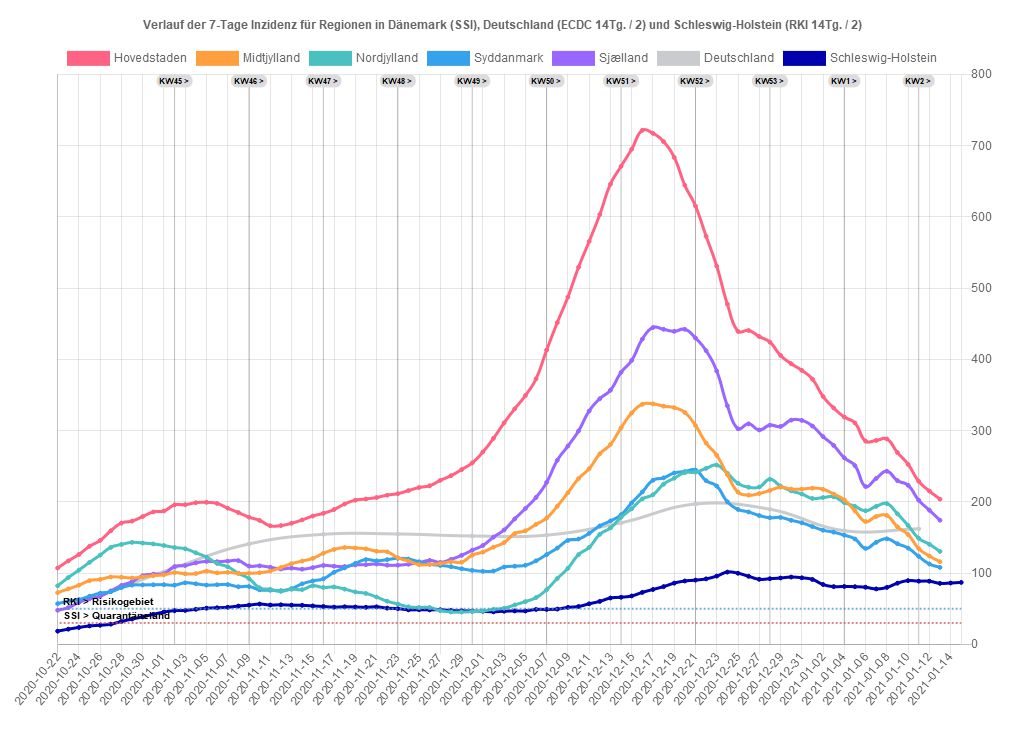
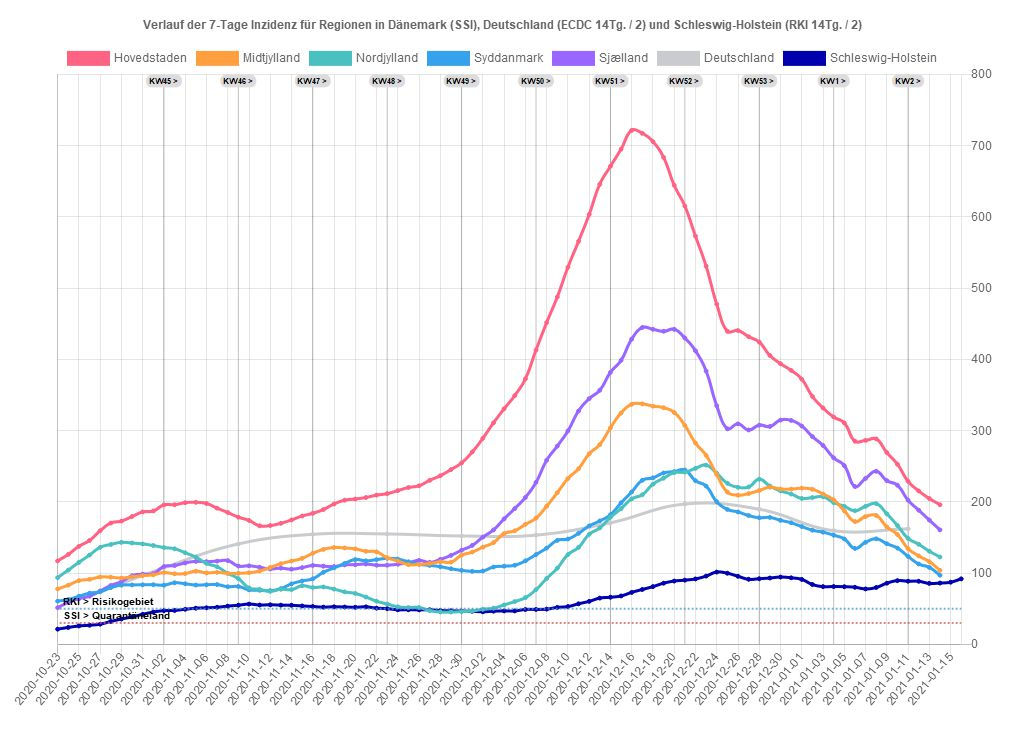
16.01.2021 14:20:41,29

diff --git a/dk/regioner.js b/dk/regioner.js
@@ -1,44 +1,44 @@
 var chdata={ type:'line',
-last_update: '2021-01-15',
-last_dk_data: '2021-01-13',
+last_update: '2021-01-16',
+last_dk_data: '2021-01-14',
 data: {
-labels: ["2020-10-22","2020-10-23","2020-10-24","2020-10-25","2020-10-26","2020-10-27","2020-10-28","2020-10-29","2020-10-30","2020-10-31","2020-11-01","2020-11-02","2020-11-03","2020-11-04","2020-11-05","2020-11-06","2020-11-07","2020-11-08","2020-11-09","2020-11-10","2020-11-11","2020-11-12","2020-11-13","2020-11-14","2020-11-15","2020-11-16","2020-11-17","2020-11-18","2020-11-19","2020-11-20","2020-11-21","2020-11-22","2020-11-23","2020-11-24","2020-11-25","2020-11-26","2020-11-27","2020-11-28","2020-11-29","2020-11-30","2020-12-01","2020-12-02","2020-12-03","2020-12-04","2020-12-05","2020-12-06","2020-12-07","2020-12-08","2020-12-09","2020-12-10","2020-12-11","2020-12-12","2020-12-13","2020-12-14","2020-12-15","2020-12-16","2020-12-17","2020-12-18","2020-12-19","2020-12-20","2020-12-21","2020-12-22","2020-12-23","2020-12-24","2020-12-25","2020-12-26","2020-12-27","2020-12-28","2020-12-29","2020-12-30","2020-12-31","2021-01-01","2021-01-02","2021-01-03","2021-01-04","2021-01-05","2021-01-06","2021-01-07","2021-01-08","2021-01-09","2021-01-10","2021-01-11","2021-01-12","2021-01-13","2021-01-14","2021-01-15"],
+labels: ["2020-10-23","2020-10-24","2020-10-25","2020-10-26","2020-10-27","2020-10-28","2020-10-29","2020-10-30","2020-10-31","2020-11-01","2020-11-02","2020-11-03","2020-11-04","2020-11-05","2020-11-06","2020-11-07","2020-11-08","2020-11-09","2020-11-10","2020-11-11","2020-11-12","2020-11-13","2020-11-14","2020-11-15","2020-11-16","2020-11-17","2020-11-18","2020-11-19","2020-11-20","2020-11-21","2020-11-22","2020-11-23","2020-11-24","2020-11-25","2020-11-26","2020-11-27","2020-11-28","2020-11-29","2020-11-30","2020-12-01","2020-12-02","2020-12-03","2020-12-04","2020-12-05","2020-12-06","2020-12-07","2020-12-08","2020-12-09","2020-12-10","2020-12-11","2020-12-12","2020-12-13","2020-12-14","2020-12-15","2020-12-16","2020-12-17","2020-12-18","2020-12-19","2020-12-20","2020-12-21","2020-12-22","2020-12-23","2020-12-24","2020-12-25","2020-12-26","2020-12-27","2020-12-28","2020-12-29","2020-12-30","2020-12-31","2021-01-01","2021-01-02","2021-01-03","2021-01-04","2021-01-05","2021-01-06","2021-01-07","2021-01-08","2021-01-09","2021-01-10","2021-01-11","2021-01-12","2021-01-13","2021-01-14","2021-01-15","2021-01-16"],
 datasets: [
 {label: 'Hovedstaden',
 backgroundColor: window.chartColors.red,
 borderColor: window.chartColors.red,
 fill: false,
-data: [107.2,117.1,126.2,137.6,145.8,159.4,170.2,173.0,179.4,185.8,187.2,195.7,196.0,198.8,199.3,197.7,191.1,185.0,178.5,173.9,166.4,166.7,169.9,174.6,180.1,183.9,189.2,197.0,202.3,204.0,206.1,209.4,211.5,215.8,220.1,222.6,230.2,236.7,245.3,254.7,270.0,289.2,310.9,330.6,349.2,372.7,413.1,451.6,487.5,529.3,565.6,603.4,645.9,671.0,695.0,721.5,717.3,705.6,683.5,644.4,615.2,572.9,530.9,477.5,439.4,440.5,432.0,424.2,405.6,393.9,384.6,372.2,348.0,331.8,319.1,310.7,285.2,286.2,288.3,269.2,252.7,228.9,215.2,203.8]},
+data: [117.1,126.2,137.6,145.8,159.4,170.2,173.0,179.4,185.8,187.2,195.7,196.0,198.8,199.3,197.7,191.1,185.0,178.5,173.9,166.4,166.7,169.9,174.6,180.1,183.9,189.2,197.0,202.3,204.0,206.1,209.4,211.5,215.8,220.1,222.6,230.2,236.7,245.3,254.7,270.0,289.2,310.9,330.6,349.2,372.7,413.1,451.6,487.5,529.3,565.6,603.4,645.9,671.0,695.0,721.5,717.3,705.6,683.5,644.4,615.2,572.9,530.9,477.5,439.4,440.4,431.9,424.2,405.5,393.9,384.6,372.2,348.0,331.8,319.1,310.7,285.2,286.2,288.3,269.2,252.7,228.9,215.3,204.7,195.9]},
 {label: 'Midtjylland',
 backgroundColor: window.chartColors.orange,
 borderColor: window.chartColors.orange,
 fill: false,
-data: [72.6,77.8,83.0,89.4,91.2,94.5,94.2,93.1,94.7,96.4,97.6,100.7,99.0,99.3,102.7,100.3,101.0,99.6,99.7,100.5,102.9,107.9,113.2,116.9,120.7,127.8,133.2,135.9,135.3,134.0,130.7,129.8,121.6,116.9,111.9,112.1,113.4,115.9,115.3,125.1,129.5,136.4,142.8,155.5,159.4,168.4,177.2,193.9,212.8,232.7,246.5,267.4,280.5,303.9,324.7,336.9,337.6,334.3,332.2,325.4,307.2,282.5,265.3,238.2,213.7,209.4,211.6,216.0,220.5,218.0,217.9,219.2,217.6,211.0,202.8,187.4,172.3,179.4,180.9,164.9,154.1,134.4,124.0,115.9]},
+data: [77.8,83.0,89.4,91.2,94.5,94.2,93.1,94.7,96.4,97.6,100.7,99.0,99.3,102.7,100.3,101.0,99.6,99.7,100.5,102.9,107.9,113.2,116.9,120.7,127.8,133.2,135.9,135.3,134.0,130.7,129.8,121.6,116.9,111.9,112.1,113.4,115.9,115.3,125.1,129.5,136.4,142.8,155.5,159.4,168.4,177.2,193.9,212.8,232.7,246.5,267.4,280.5,303.9,324.7,336.9,337.6,334.3,332.2,325.4,307.2,282.5,265.3,238.2,213.7,209.4,211.6,216.0,220.5,218.0,217.9,219.2,217.6,211.0,202.8,187.4,172.3,179.4,180.9,164.9,154.1,134.4,124.1,116.0,103.9]},
 {label: 'Nordjylland',
 backgroundColor: window.chartColors.green,
 borderColor: window.chartColors.green,
 fill: false,
-data: [82.2,93.7,104.2,115.1,125.3,136.1,140.2,143.1,142.2,140.9,138.7,135.9,134.1,128.5,122.4,113.6,108.8,99.7,92.2,79.3,77.1,74.4,77.3,76.8,82.2,79.8,80.5,77.5,73.6,71.4,66.4,60.5,56.6,52.7,51.7,51.7,47.3,45.4,45.3,45.9,46.8,49.2,50.7,55.3,60.0,65.6,76.8,92.4,106.8,125.9,136.1,154.4,163.4,178.3,190.4,204.1,210.0,224.8,233.2,241.0,241.7,247.0,251.6,240.0,226.1,220.5,220.9,231.7,222.2,215.4,211.0,204.8,206.0,207.1,199.0,193.7,187.5,193.7,197.5,183.2,166.8,148.8,140.5,130.4]},
+data: [93.7,104.2,115.1,125.3,136.1,140.2,143.1,142.2,140.9,138.7,135.9,134.1,128.5,122.4,113.6,108.8,99.7,92.2,79.3,77.1,74.4,77.3,76.8,82.2,79.8,80.5,77.5,73.6,71.4,66.4,60.5,56.6,52.7,51.7,51.7,47.3,45.4,45.3,45.9,46.8,49.2,50.7,55.3,60.0,65.6,76.8,92.4,106.8,125.9,136.1,154.4,163.4,178.3,190.4,204.1,210.0,224.8,233.2,241.0,241.7,247.0,251.6,240.0,226.1,220.5,220.9,231.7,222.2,215.4,211.0,204.8,206.0,207.1,199.0,193.7,187.5,193.7,197.5,183.2,166.8,148.8,140.5,130.7,122.6]},
 {label: 'Syddanmark',
 backgroundColor: window.chartColors.blue,
 borderColor: window.chartColors.blue,
 fill: false,
-data: [57.1,60.6,62.9,67.5,71.8,73.8,79.6,83.1,83.4,83.6,83.7,83.1,86.4,85.0,83.2,83.6,83.9,80.9,81.2,76.5,75.9,75.4,78.3,84.9,89.0,92.0,101.1,107.3,113.6,119.0,117.2,118.9,120.7,119.6,115.9,112.4,110.8,109.0,106.1,103.8,102.5,102.9,108.5,109.7,111.0,117.2,126.0,135.1,145.9,147.8,155.8,166.2,173.2,181.9,198.6,213.9,230.3,233.7,240.5,242.5,244.7,229.7,222.1,200.2,189.4,185.8,180.8,177.7,178.1,174.1,170.6,165.3,160.2,157.4,153.2,147.9,134.6,143.2,148.1,141.2,135.1,123.4,112.8,108.0]},
+data: [60.6,62.9,67.5,71.8,73.8,79.6,83.1,83.4,83.6,83.7,83.1,86.4,85.0,83.2,83.6,83.9,80.9,81.2,76.5,75.9,75.4,78.3,84.9,89.0,92.0,101.1,107.3,113.6,119.0,117.2,118.9,120.7,119.6,115.9,112.4,110.8,109.0,106.1,103.8,102.5,102.9,108.5,109.7,111.0,117.2,126.0,135.1,145.9,147.8,155.8,166.2,173.2,181.9,198.6,213.9,230.3,233.7,240.5,242.5,244.7,229.7,222.1,200.2,189.4,185.8,180.8,177.7,178.1,174.1,170.6,165.3,160.2,157.4,153.2,147.9,134.6,143.2,148.1,141.2,135.1,123.4,112.8,108.0,97.0]},
 {label: 'Sjælland',
 backgroundColor: window.chartColors.purple,
 borderColor: window.chartColors.purple,
 fill: false,
-data: [47.8,51.5,58.8,64.0,67.6,75.0,82.6,88.0,96.3,98.5,99.1,109.2,110.6,114.3,116.4,116.0,116.8,117.5,109.9,110.2,108.2,105.8,106.9,105.5,107.7,110.7,109.7,109.2,111.5,111.8,112.7,111.1,111.1,112.4,114.6,117.8,115.0,119.2,124.9,132.1,138.8,150.5,160.6,176.1,190.6,206.2,227.4,258.3,278.3,299.5,327.5,344.8,356.7,381.7,398.6,428.4,444.7,442.2,439.4,442.2,430.0,412.1,383.6,334.9,302.6,309.5,300.9,307.6,305.8,314.7,314.3,306.4,291.6,279.1,261.8,250.8,221.5,232.9,242.9,229.8,223.3,202.3,188.3,174.2]},
+data: [51.5,58.8,64.0,67.6,75.0,82.6,88.0,96.3,98.5,99.1,109.2,110.6,114.3,116.4,116.0,116.8,117.5,109.9,110.2,108.2,105.8,106.9,105.5,107.7,110.7,109.7,109.2,111.5,111.8,112.7,111.1,111.1,112.4,114.6,117.8,115.0,119.2,124.9,132.1,138.8,150.5,160.6,176.1,190.6,206.2,227.4,258.3,278.3,299.5,327.5,344.8,356.7,381.7,398.6,428.4,444.7,442.2,439.4,442.2,430.0,412.1,383.6,334.9,302.6,309.5,300.9,307.6,305.8,314.7,314.3,306.4,291.6,279.1,261.8,250.8,221.5,232.9,242.9,229.8,223.3,202.3,188.3,174.4,160.6]},
 {label: 'Deutschland',
 backgroundColor: window.chartColors.grey,
 borderColor: window.chartColors.grey,
 spanGaps: true,
 fill: false,
-data: [,,,,67.8,,,,,,,107.6,,,,,,,140.9,,,,,,,154.4,,,,,,,154.9,,,,,,,152.1,,,,,,,153.3,,,,,,,170.6,,,,,,,196.9,,,,,,,189.6,,,,,,,159.5,,,,,,,162.1,,,,]},
+data: [,,,67.8,,,,,,,107.6,,,,,,,140.9,,,,,,,154.4,,,,,,,154.9,,,,,,,152.1,,,,,,,153.3,,,,,,,170.6,,,,,,,196.9,,,,,,,189.6,,,,,,,159.5,,,,,,,162.1,,,,,]},
 {label: 'Schleswig-Holstein',
 backgroundColor: '#0000AF',
 borderColor: '#0000AF',
 fill: false,
-data: [18.5,21.3,23.7,25.8,26.8,28.3,32.1,35.5,38.5,42.1,45.3,47.3,47.6,49.2,50.7,51.3,52.0,53.7,55.0,56.5,55.2,55.5,55.0,54.8,53.9,53.1,52.2,52.7,52.4,52.0,52.6,50.8,50.1,48.5,48.6,48.4,48.5,47.5,47.1,46.7,46.4,45.7,46.5,46.9,46.9,49.0,49.0,49.5,51.8,53.1,56.9,60.3,65.0,66.1,67.9,72.9,77.0,81.0,85.9,88.9,90.1,91.9,95.8,101.4,99.8,95.5,91.3,92.1,93.1,94.4,93.4,91.1,84.0,81.0,81.2,80.9,80.1,77.8,79.9,85.8,89.4,88.7,88.6,85.6,86.1,86.9]}
+data: [21.3,23.7,25.8,26.8,28.3,32.1,35.5,38.5,42.1,45.3,47.3,47.6,49.2,50.7,51.3,52.0,53.6,54.9,56.5,55.2,55.5,55.0,54.8,53.9,53.1,52.2,52.7,52.4,52.0,52.6,50.8,50.1,48.5,48.6,48.4,48.5,47.5,47.1,46.7,46.4,45.7,46.5,46.9,46.9,48.9,49.0,49.4,51.8,53.0,56.9,60.3,64.9,66.1,67.9,72.9,77.0,81.0,85.8,88.8,90.1,91.8,95.8,101.4,99.8,95.5,91.3,92.1,93.1,94.4,93.4,91.1,84.0,81.0,81.1,80.9,80.1,77.8,79.8,85.8,89.4,88.6,88.5,85.5,86.0,87.2,91.9]}
 ]}};
 

diff --git a/sterblichkeit/sterbefaelle7_ueber_us.js b/sterblichkeit/sterbefaelle7_ueber_us.js
@@ -13,7 +13,7 @@ lastcw: '2020/53',
 lastcw_covid: '2021/01',
 covid_sum: '374442',
 jh_last_covid_dayoffset: '5',
-jh_covid_sum: '391955',
+jh_covid_sum: '392106',
 labels: ["2020/01","2020/02","2020/03","2020/04","2020/05","2020/06","2020/07","2020/08","2020/09","2020/10","2020/11","2020/12","2020/13","2020/14","2020/15","2020/16","2020/17","2020/18","2020/19","2020/20","2020/21","2020/22","2020/23","2020/24","2020/25","2020/26","2020/27","2020/28","2020/29","2020/30","2020/31","2020/32","2020/33","2020/34","2020/35","2020/36","2020/37","2020/38","2020/39","2020/40","2020/41","2020/42","2020/43","2020/44","2020/45","2020/46","2020/47","2020/48","2020/49","2020/50","2020/51","2020/52","2020/53","2021/01","2021/02","2021/03"],
 type: 'line',
 _ecdc_data: [0,0,0,0,0,0,0,0,2,19,48,402,2038,7138,12461,18574,14194,12806,11846,10034,8158,6663,6131,5218,4243,5829,4143,5258,5329,6401,7925,8078,7114,6754,6263,5872,5138,5430,5247,5038,4977,4903,5556,5766,6576,8642,10568,10091,15437,16867,18493,15656,18264,22852,,],

diff --git a/sh/index_sh_alter.html b/sh/index_sh_alter.html
@@ -5,7 +5,7 @@
 <meta property="og:image" content="index_sh_alter.jpg" />
 <meta property="og:type" content="website" />
 <meta property="og:locale" content="de_DE" />
-<meta property="og:updated_time" content="2021-01-16T07:05:06+01:00" />
+<meta property="og:updated_time" content="2021-01-16T14:20:40+01:00" />
 <title>Altersverteilung der COVID-19-Fälle in Schleswig-Holstein</title>
 <link rel="stylesheet" href="../css/style.css" media="screen" type="text/css">
 <link rel="stylesheet" media="screen" href="Chart.min.css"> 

diff --git a/sh/index_pi_alter.html b/sh/index_pi_alter.html
@@ -5,7 +5,7 @@
 <meta property="og:image" content="index_pi_alter.jpg" />
 <meta property="og:type" content="website" />
 <meta property="og:locale" content="de_DE" />
-<meta property="og:updated_time" content="2021-01-16T07:05:06+01:00" />
+<meta property="og:updated_time" content="2021-01-16T14:20:40+01:00" />
 <title>Altersverteilung der COVID-19-Fälle im Kreis Pinneberg</title>
 <link rel="stylesheet" href="../css/style.css" media="screen" type="text/css">
 <link rel="stylesheet" media="screen" href="Chart.min.css"> 

diff --git a/sh/index.html b/sh/index.html
@@ -5,7 +5,7 @@
 <meta property="og:image" content="index.jpg" />
 <meta property="og:type" content="website" />
 <meta property="og:locale" content="de_DE" />
-<meta property="og:updated_time" content="2021-01-16T07:05:06+01:00" />
+<meta property="og:updated_time" content="2021-01-16T14:20:40+01:00" />
 <title>COVID-19-Fälle im Kreis Pinneberg</title>
 <link rel="stylesheet" href="../css/style.css" media="screen" type="text/css">
 <link rel="stylesheet" media="screen" href="Chart.min.css"> 
